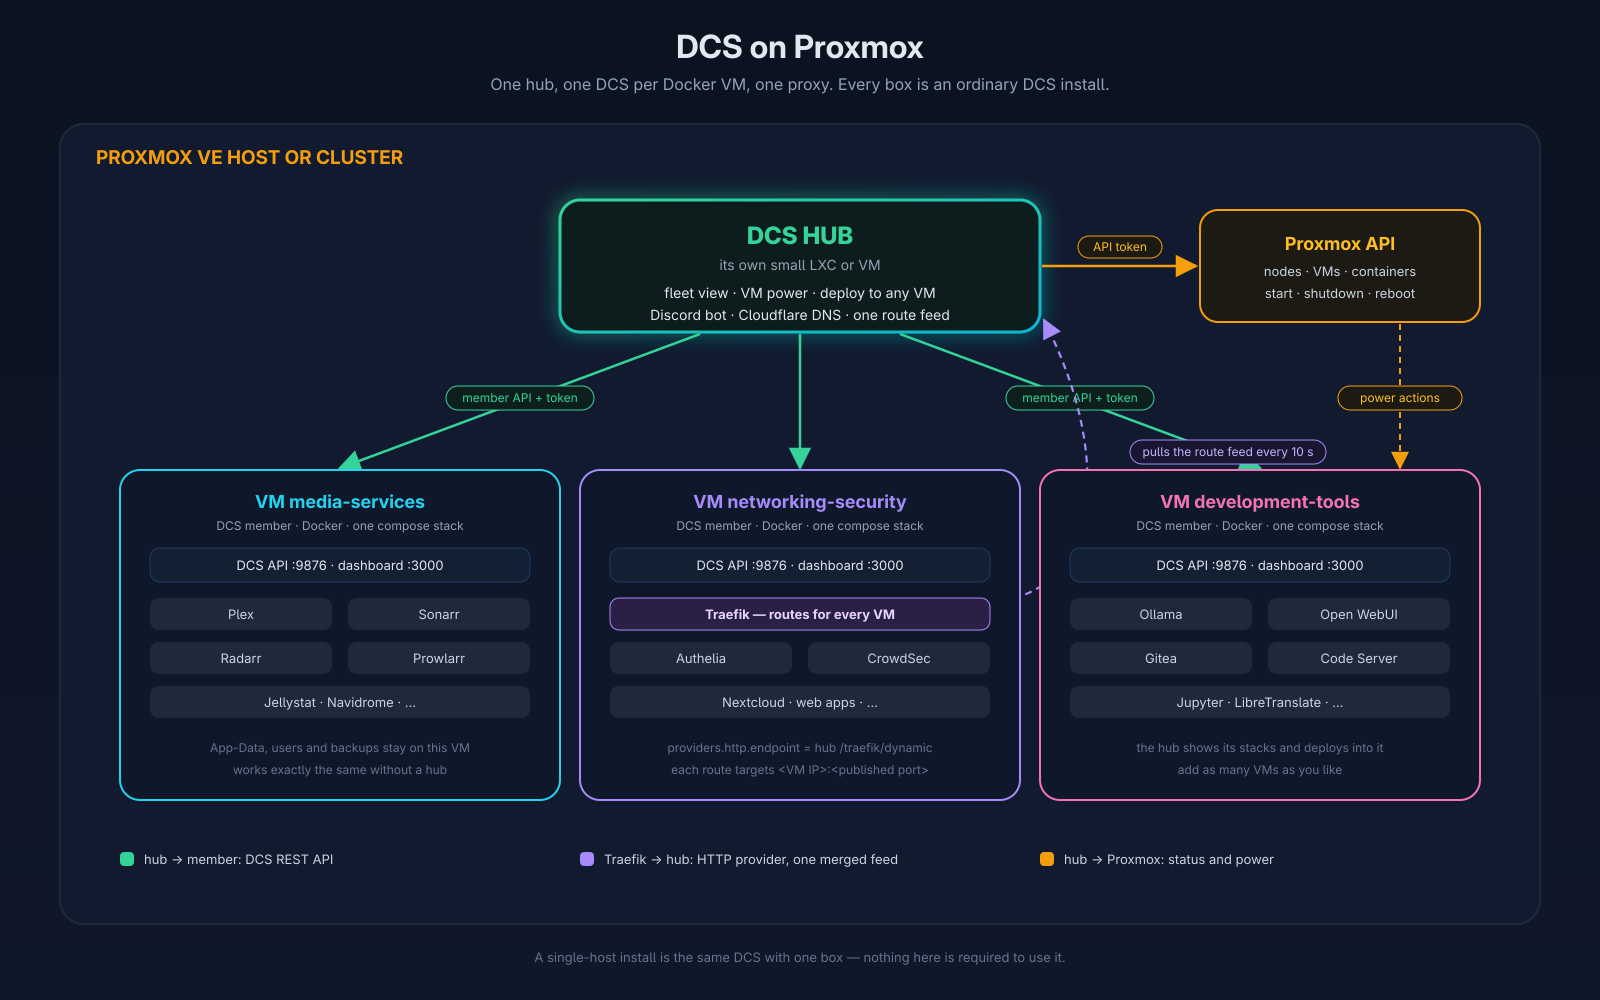
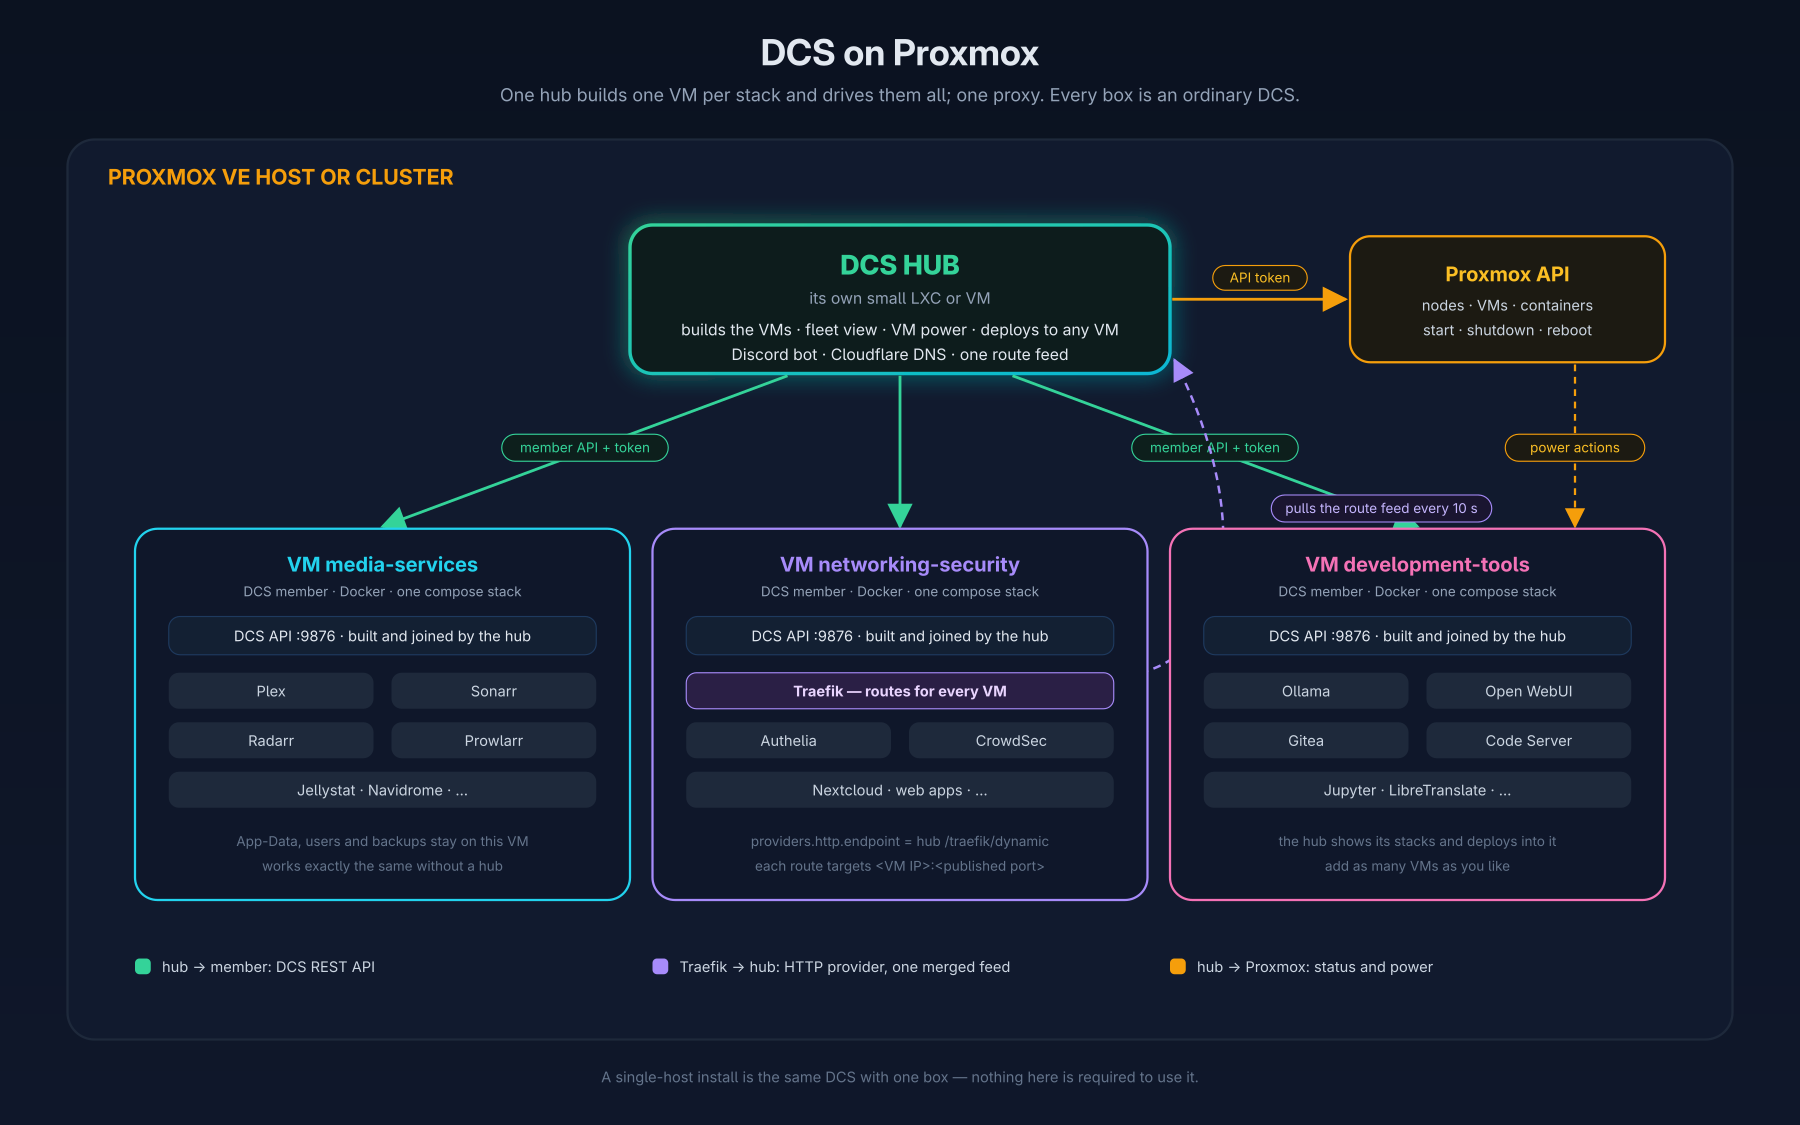
fix: the fleet double-checked on a real Proxmox host — network defaults, uuid match, offline stacks, re-match kept
From a clean install of the committed tree on a Proxmox VE 9 lab, the wizard built two VMs,
a template was deployed into one through the hub, the VM rebooted and the whole host was
cold-rebooted with everything returning by itself. What that run changed: VM network defaults
read from the bridge when the hub sits on the Proxmox host, a DNS chain that never proposes a
local stub; the bootstrap keeps the VM's SMBIOS uuid for the API (root-only in sysfs) so
members match by uuid; the identity says whether a member serves a dashboard; Test keeps its
re-match; a member that is off keeps its stacks listed offline instead of the hub's leftover
folder standing in; the architecture diagram matches the model.

diff --git a/docs/PROXMOX.md b/docs/PROXMOX.md
@@ -227,7 +227,7 @@ stopped):
 | **Cloud-init** | User `dcs` (`FLEET_VM_USER`) with the hub's own ssh key (made once in `.data/fleet-ssh`), the static address, gateway and DNS. |
 | **Boot** | Starts the VM and waits for the Proxmox task. |
 | **SSH** | Waits for the VM to answer ssh (first boot runs cloud-init). |
-| **Install** | Pipes `.scripts/fleet-bootstrap.sh` into the VM: a network check, curl/git/jq/socat/openssl/python3 and the QEMU guest agent, Docker (get.docker.com, with fallbacks) and Compose, then the hub's **own code** as a bundle (`GET /fleet/bundle?token=<join code>`, never data, accounts, secrets or stacks), then an **unattended member setup** that creates the admin (your username on the hub, a generated password kept in the hub's secret store as `FLEET_MEMBER_<STACK>_ADMIN_PASSWORD`), writes the configuration, creates the stack, starts the API without a dashboard and joins the hub, and finally the boot services (`dcs-api`, `dcs-stacks`). Every line lands in the job log. |
+| **Install** | Copies `.scripts/fleet-bootstrap.sh` to the VM and runs it: a network check, curl/git/jq/socat/openssl/python3 and the QEMU guest agent, Docker (get.docker.com, with fallbacks) and Compose, then the hub's **own code** as a bundle (`GET /fleet/bundle?token=<join code>`, never data, accounts, secrets or stacks), then an **unattended member setup** that creates the admin (your username on the hub, a generated password kept in the hub's secret store as `FLEET_MEMBER_<STACK>_ADMIN_PASSWORD`), writes the configuration, creates the stack, starts the API without a dashboard and joins the hub, and finally the boot services (`dcs-api`, `dcs-stacks`). Every line lands in the job log. |
 | **Join** | Waits for the VM's join, then maps the member to the VMID and marks it *provisioned*. |
 | **Ready** | Asks the member for its stacks through the hub. |
 
@@ -262,7 +262,8 @@ same progress card. A fully unattended install (what the hub runs inside a VM) t
 `DCS_API_BIND` and `DCS_NO_UI=true` (API only).
 
 The hub matches a member to its guest by the VM's **SMBIOS uuid** (`smbios1` in its
-configuration), then a **shared address** (guest agent / container interfaces), then the
+configuration; root-only in the VM's sysfs, so the bootstrap keeps a copy in `.data/product_uuid`
+for the API — do the same on a VM you set up by hand), then a **shared address** (guest agent / container interfaces), then the
 **name**; a member it could not place is listed under *Members without a guest* with *Pick the
 guest*, and the member menu's *Test* re-matches.
 
@@ -309,7 +310,7 @@ guest*, and the member menu's *Test* re-matches.
 | GET / POST | `/fleet/provision/defaults` | admin — prefilled values for building VMs (POST with Proxmox values before they are saved) |
 | POST | `/fleet/provision` | admin — build one VM per stack `{node, storage, image_storage, bridge, cidr, gateway, dns, ip_start, vms: [{stack, cores, memory_mb, disk_gb, ip}]}` |
 | GET | `/fleet/jobs`, `/fleet/jobs/{id}` | admin — the builds with steps and log |
-| POST / DELETE | `/fleet/jobs/{id}/retry`, `/fleet/jobs/{id}` | admin |
+| POST / DELETE | `/fleet/jobs/{id}/retry`, `/fleet/jobs/{id}` (`?destroy=true` also destroys a failed build's VM) | admin |
 | GET / POST | `/proxmox/capabilities`, `/proxmox/storage` | admin — what the token may do, the storages |
 | GET / POST / DELETE | `/fleet/join-tokens`, `/fleet/join-tokens/{token}` | admin — join codes |
 | POST | `/fleet/join` | public — a member registers with a join code |
@@ -362,6 +363,9 @@ Command line, on any DCS: `.scripts/api-server.sh --join-hub URL CODE [NAME]`, `
 | A build fails at **Install** with *could not fetch the DCS bundle* | The VM cannot reach the hub at `FLEET_SELF_URL` (a 403 means the build's join code expired — *Retry* renews it). |
 | A build fails at **Join** | The VM installed DCS but its join never arrived: `FLEET_SELF_URL` must be the hub's address as the VM sees it; the VM's `~/.Docker-Compose-Skeleton-AIO/logs` says what it tried. |
 | *The hub could not log in to http://…* on a join | The hub must reach the member's API at that address: a firewall, or a wrong detected address — set `FLEET_SELF_URL=http://<member ip>:9876` in the member's `.env` (or pass `url` on the join) and join again. |
+| A build is refused: *runs on this server (the hub)* | The hub runs that stack itself: it is in the hub's `DOCKER_STACKS` or has containers up. Stop it and take it out of `DOCKER_STACKS` (Settings), then build the VM; a bare `Stacks/<name>` folder never blocks a build. |
+| A build is refused: *A guest named … already exists on Proxmox* | A VM or container already carries the stack's name. Link it from the Proxmox page if it is that stack's DCS, or rename it in Proxmox and build. |
+| A build failed and its VM is still on Proxmox | *Retry* resumes the job (the VM is reused); *Dismiss* asks whether to destroy the VM as well (`DELETE /fleet/jobs/{id}?destroy=true`). |
 | The join code is refused | Codes expire after 24 h (or the hours chosen) and are case-insensitive; mint a new one on the hub's Proxmox page. Five wrong codes from one address lock it out for a while, like logins. |
 | A member shows *no guest matched* | No guest agent (uuid still works for a VM if the hub reads `smbios1`, but an LXC or a VM whose name differs from the hostname needs the address or the name to match): pick the guest from the member menu. |
 | The scan finds nothing | The scan needs each guest's addresses from the QEMU guest agent (or container interfaces) and DCS answering on port 9876 there (`FLEET_SCAN_PORTS` for others). A VM without the agent shows *address unknown*. |

diff --git a/CHANGELOG.md b/CHANGELOG.md
@@ -72,6 +72,19 @@ The format follows [Keep a Changelog](https://keepachangelog.com/en/1.1.0/).
 - A bare `wait` in the hub's metrics loop made some bash versions print *not a child of this
   shell* without end (a 15 GB log in an hour); the fleet waits for its own children only.
 - `install-service.sh` died under `pipefail` when `.env` had no `API_BIND`.
+- The VM network the wizard proposes is read from the bridge when the hub sits on the Proxmox
+  host itself (its `vmbr0` address, the host as gateway), and its DNS is never a local stub:
+  `/etc/resolv.conf` unless it points at `127.*`, then systemd-resolved's upstream servers, then
+  the router, then a public resolver.
+- A member the hub built reports its SMBIOS uuid (root-only in sysfs; the bootstrap keeps a copy
+  the API can read) so the hub matches it to its guest by uuid, not just by address, and says
+  whether it serves a dashboard — the Proxmox page hides *Its dashboard* for API-only members
+  and counts the hub's own stacks only (a member's stack is not "run here").
+- The wizard refreshes the VM settings from the hub's defaults after another *Test connection*
+  unless you edited them.
+- *Test* on a member keeps the guest it re-matched (a guest mapped by hand stays as mapped). A
+  member that does not answer — its VM is off — keeps its stacks in the hub's list, marked
+  offline, so the hub's leftover `Stacks/<name>` folder never stands in for a VM's stack.
 - `api-server.sh --stop` trusts its pid file only when that process is this installation's own
   server, and only ever removes port listeners started from this installation — a copied
   `.data/` or a reused pid can no longer point it at another DCS.
